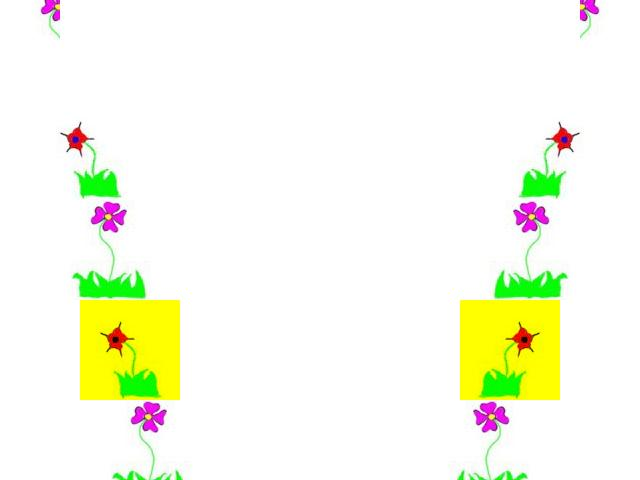
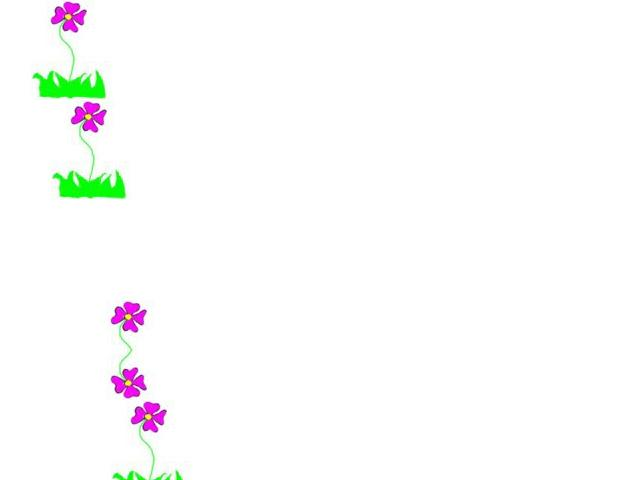
collage2

Changed region(s): [[0.0312, 0.0, 0.2812, 0.8438], [0.7188, 0.25, 0.9062, 1.0], [0.9062, 0.0, 0.9375, 0.0938]]

diff --git a/pixlab/PictureTester.java b/pixlab/PictureTester.java
@@ -130,6 +130,20 @@ public class PictureTester
     canvas.explore();
   }
   
+  public static void testMyCollage()
+  {
+    Picture canvas = new Picture("640x480.jpg");
+    canvas.myCollage();
+    canvas.explore();
+  }
+  
+  public static void testCopy()
+  {
+    Picture element = new Picture("beach.jpg");
+    Picture cat = new Picture("cat.jpg");
+    element.copy(cat,100,200,78,150,354,513);
+    element.explore();
+  }
   /** Method to test edgeDetection */
   public static void testEdgeDetection()
   {
@@ -163,6 +177,7 @@ public class PictureTester
     //testMirrorDiagonal();
     testCollage();
     //testCopy();
+    testMyCollage();
     //testEdgeDetection();
     //testEdgeDetection2();
     //testChromakey();

diff --git a/pixlab/Picture.java b/pixlab/Picture.java
@@ -420,11 +420,12 @@ public class Picture extends SimplePicture
     Picture flower1 = new Picture("flower1.jpg");
     this.copy(flower1,0,20);
     this.copy(flower1,100,40);
-    this.copy(flower1,200,60);
-    Picture flowerNoBlue = new Picture(flower1);
-    flowerNoBlue.zeroBlue();
-    this.copy(flowerNoBlue,300,80);
-    this.copy(flower1,400,100);
+    this.copy(flower1,50,600,30,60,30,60);
+    Picture flowerMirror = new Picture(flower1);
+    flowerMirror.mirrorHorizontal();
+    Picture cat = new Picture("cat.jpg");
+    this.copy(flowerMirror,300,80);
+    this.copy(cat,100,200,78,150,354,513);
     this.copy(flower1,500,120);
     this.mirrorVertical();
     this.write("collage.jpg");

diff --git a/pixlab/PictureExplorer.java b/pixlab/PictureExplorer.java
@@ -800,7 +800,7 @@ public class PictureExplorer implements MouseMotionListener, ActionListener, Mou
    */
   public static void main( String args[])
   {
-    Picture pix = new Picture("snowman.jpg");
+    Picture pix = new Picture("cat.jpg");
     pix.explore();
     
   }
